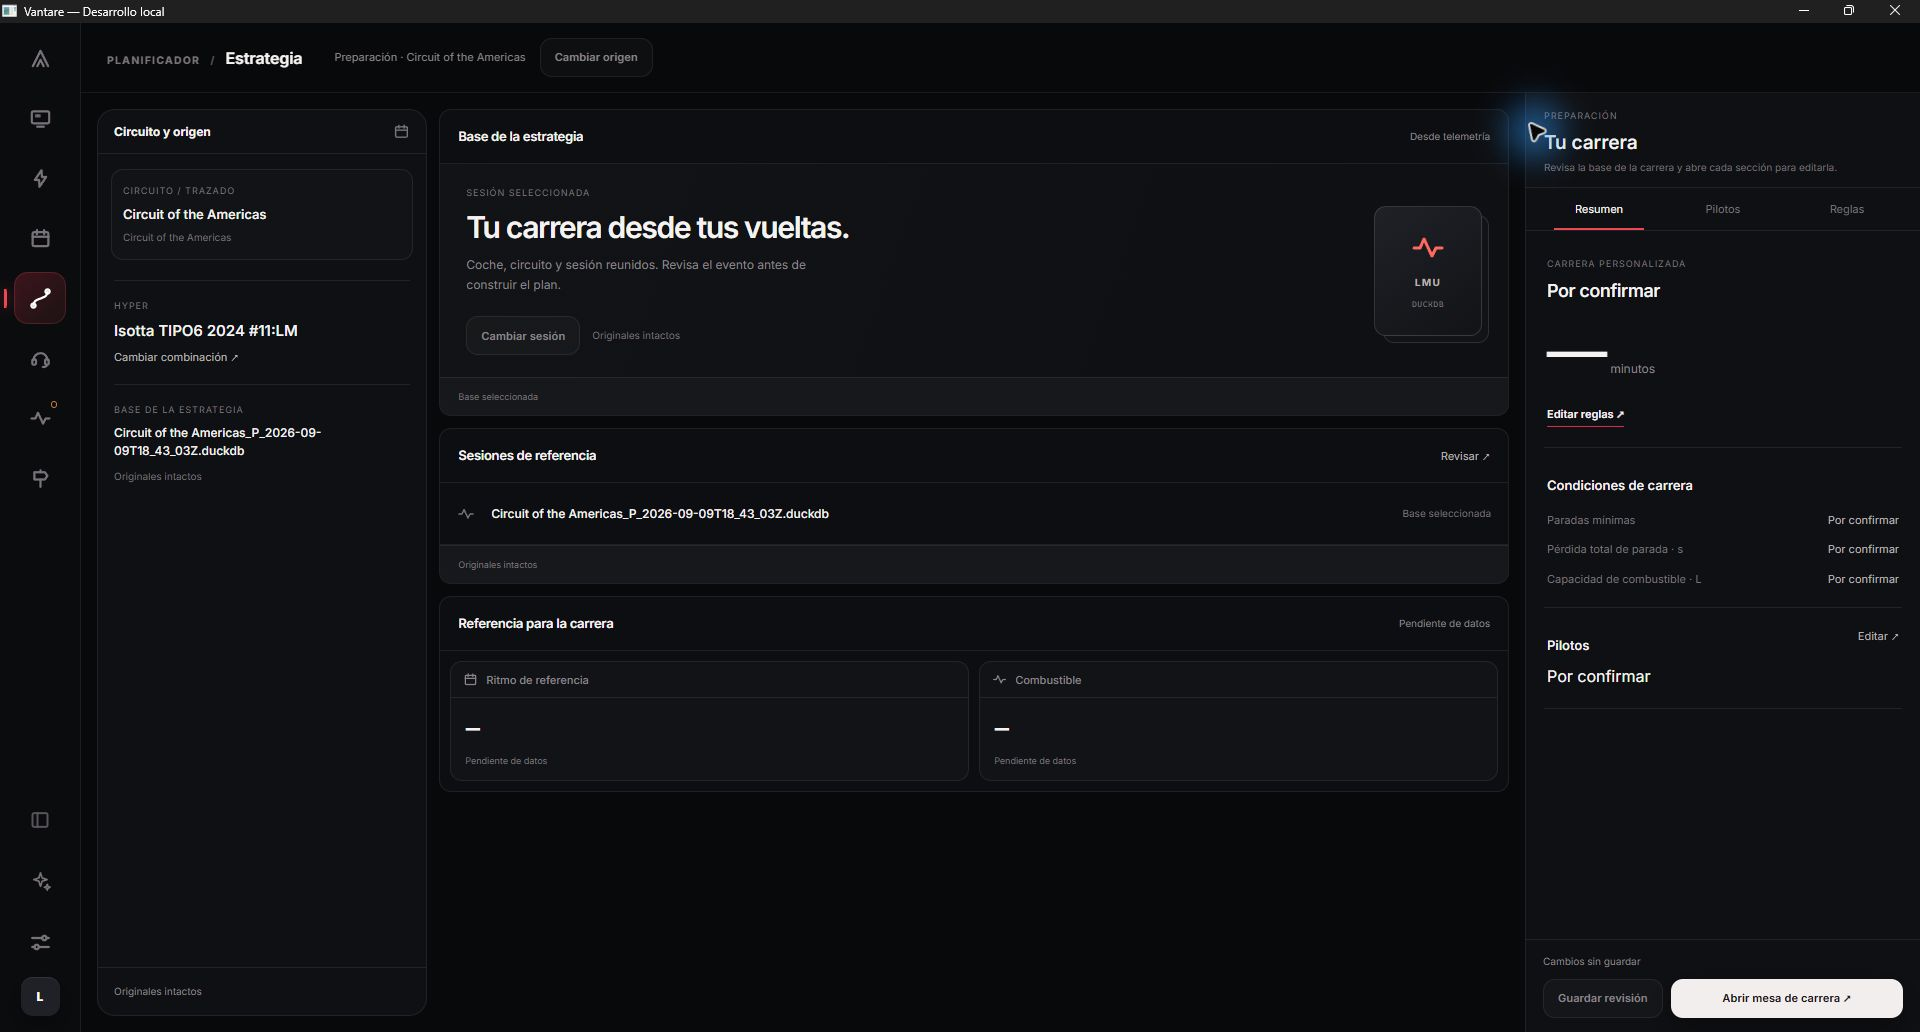
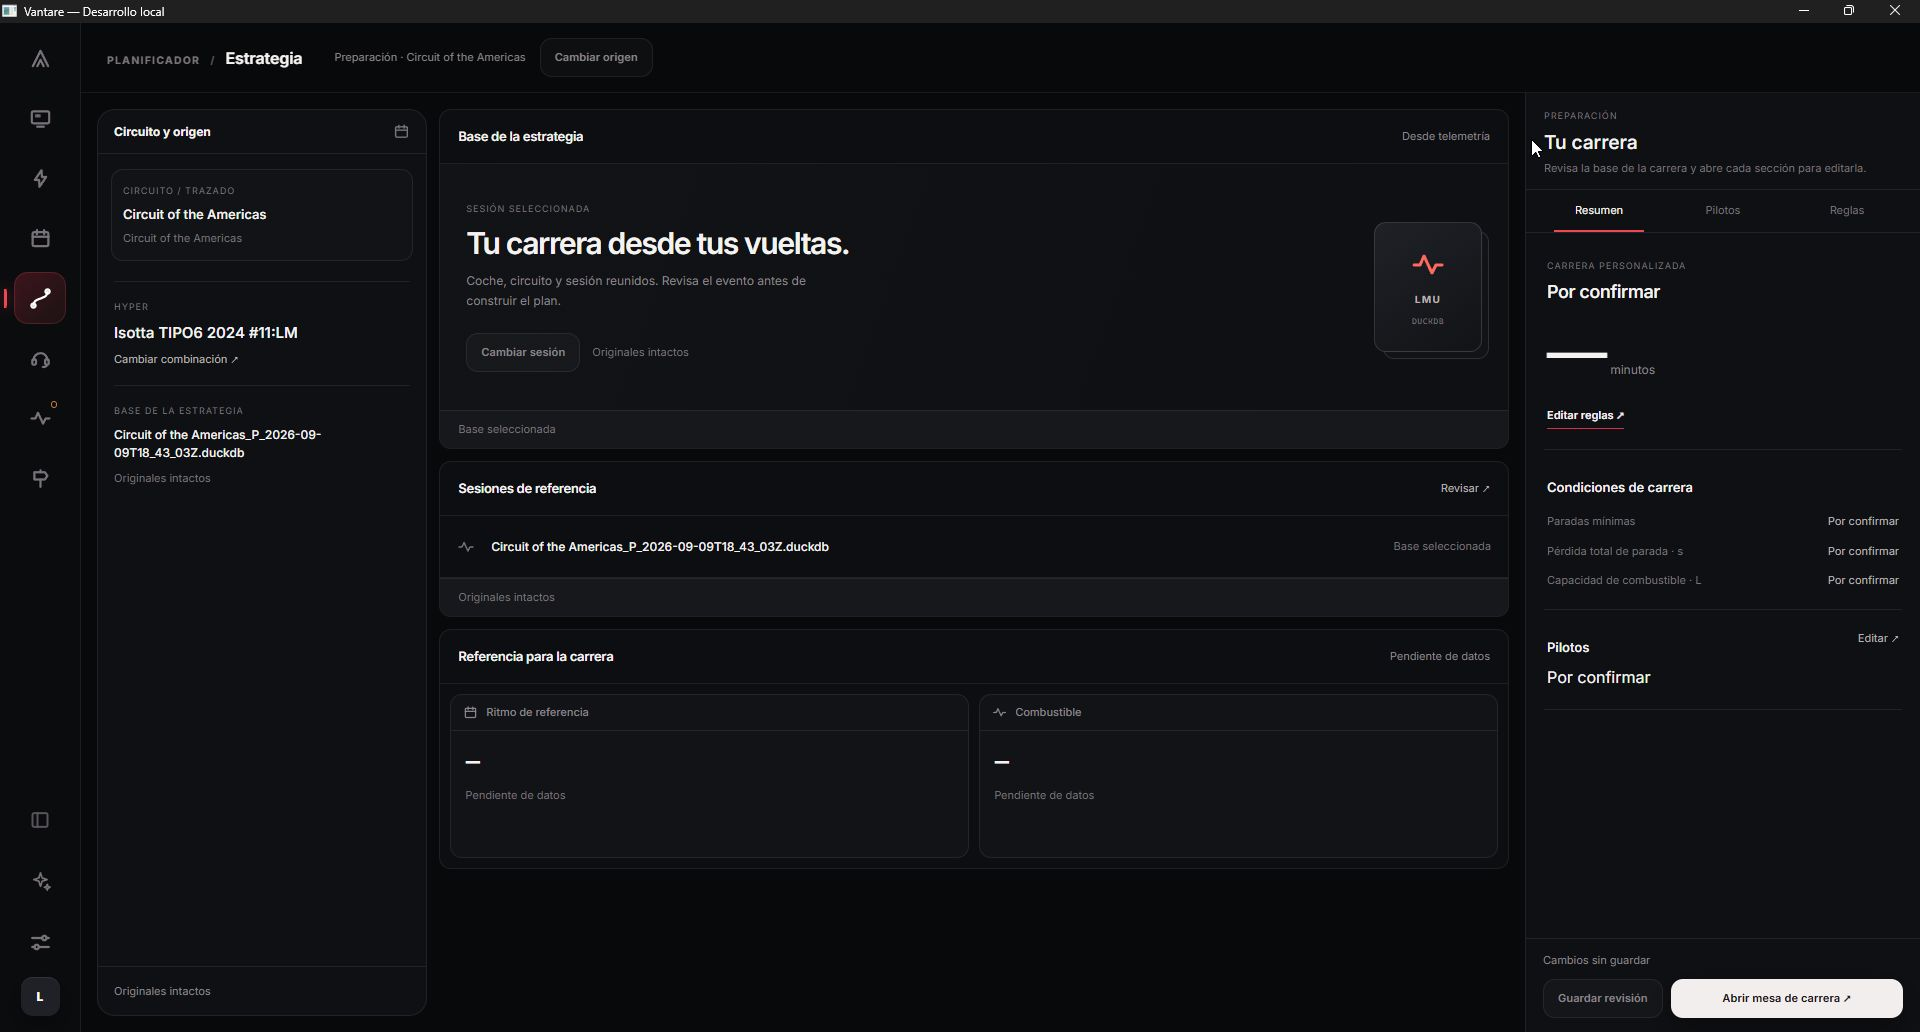
fix(strategy): apply preparation card heights and verify native build

diff --git a/vantare-v2/frontend/src/hub/strategy-orbit/strategy-recorded-preparation.css b/vantare-v2/frontend/src/hub/strategy-orbit/strategy-recorded-preparation.css
@@ -30,7 +30,8 @@
 .strategy-preparation__combination-panel .strategy-recorded-combination__identity{grid-template-columns:1fr;padding:13px}
 .strategy-preparation__combination-panel :is(select,.strategy-recorded-combination__sim){min-height:40px}
 .strategy-preparation__main{grid-column:2;grid-row:1;display:grid;grid-template-rows:auto auto minmax(175px,auto);align-content:start;gap:12px;min-width:0;min-height:690px}
-.strategy-preparation__main>section{display:flex;flex-direction:column;min-width:0;min-height:0;border:1px solid var(--orbit-line);border-radius:var(--orbit-radius-control);background:var(--orbit-surface-0);overflow:hidden}
+:where(.strategy-preparation__main>section){min-height:0}
+.strategy-preparation__main>section{display:flex;flex-direction:column;min-width:0;border:1px solid var(--orbit-line);border-radius:var(--orbit-radius-control);background:var(--orbit-surface-0);overflow:hidden}
 .strategy-preparation__main>section>header{display:flex;align-items:center;justify-content:space-between;gap:12px;min-height:54px;flex:none;padding:0 18px;border-bottom:1px solid var(--orbit-line)}
 .strategy-preparation__main>section>header h3{margin:0;font-size:13px;font-weight:600;letter-spacing:-.02em}
 .strategy-preparation__main>section>header span{font-size:11px;color:var(--orbit-ink-3)}

diff --git a/vantare-v2/docs/strategy-planner/evidence/isa-1322/README.md b/vantare-v2/docs/strategy-planner/evidence/isa-1322/README.md
@@ -1,6 +1,16 @@
 # ISA-1322 — Corrección visual de Strategy v5
 
-Estado: corrección implementada localmente. Último empaquetado Wails bloqueado por Windows Defender; aceptación visual pendiente.
+Estado: corrección implementada localmente. Rebuild normal recuperada y asset regenerado con VirusTotal 0/62. Aceptación visual pendiente; el bloqueo histórico de abajo ya no es el estado actual.
+
+## Verificación posterior — 22-sep, última build
+
+La revisión de la captura aportada por Isaac detectó una causa concreta: `.strategy-preparation__main>section` anulaba por especificidad los mínimos de las tarjetas. Se reduce únicamente la especificidad del valor genérico con `:where`; las alturas propias se aplican sin `!important`. Lint y build localdev completos pasan, logs `C:/tmp/isa1322-css-final-lint.log` y `C:/tmp/isa1322-css-final-build-localdev.log`. No se repite la suite funcional porque este ajuste es exclusivamente CSS; se verifica el render nativo.
+
+Root reabre el DuckDB COTA en el ejecutable recompilado y comprueba ventana 1266×793 y maximizada 1920×1033: Base 340 px y Referencias 240 px en escritorio amplio, controles y pie visibles. Las capturas [normal](preparation-normal.png) y [maximizada](preparation-maximized.png) corresponden ahora a esta build. Reglas y Pilotos se comprobaron en el mismo corte funcional antes de recompilar este CSS. Original con el mismo SHA-256 documentado abajo. La consola transitoria del lector sigue siendo un antecedente reproducido; no se interviene en ella.
+
+«Por confirmar» en evento y pilotos corresponde a una configuración aún sin rellenar. «Pendiente de datos» en ritmo/consumo es una limitación distinta: esta vista no recibe todavía la proyección exacta de telemetría, y su código muestra guiones expresamente. No es prueba de ausencia de vueltas utilizables y no se presenta como flujo funcional terminado.
+
[1 lines of base64/hex data omitted]
 
 ## Alcance
 
@@ -37,7 +47,7 @@ Sin push, PR, CI remota, merge, promoción ni release. La configuración de la b
 
 - Suite frontend: 490 archivos, **4.265 pruebas aprobadas, 2 omitidas**, salida 0. Se conserva en el log la traza Happy DOM `AbortError` durante teardown; no se oculta ni se presenta como prueba nativa.
 - Focales Preparation/Page/Workflow: **19/19**. Incluyen combinación plegada y reapertura, guardado, biblioteca con segunda sesión, referencias pendientes de revisión exacta y redondeo de ritmo al cambio de minuto (59.9999 → 1:00.000).
-- Typecheck, ESLint, auditoría i18n (cuatro idiomas, cero ausentes/huérfanas) y builds anteriores frontend+Wails localdev: salida 0. El último ajuste CSS compila en frontend, pero el empaquetado Wails final está bloqueado; véase abajo.
+- Typecheck, ESLint, auditoría i18n (cuatro idiomas, cero ausentes/huérfanas) y builds frontend+Wails localdev: salida 0. El bloqueo histórico se documenta abajo; el último CSS sí está empaquetado y comprobado en nativo en la verificación posterior.
 - Roadmap: 44 pruebas aprobadas; artefacto regenerado desde origin/nightly, `--check` sin cambios. No se editó JSON manualmente.
 - No se repite Go test: no se modifica Go ni contrato compartido. La compilación Wails localdev sí enlaza el frontend productivo nuevo.
 - No se ejecuta CI remota ni matriz completa de idiomas/tamaños; la prueba visual nativa de este corte es en español a 1266×793 y 1920×1033.
@@ -50,9 +60,9 @@ Abrir `C:/tmp/vantare-isa1322/vantare-v2/bin/vantare-localdev.exe`, entrar en St
 
 Las instancias propias de QA se cerraron antes de recompilar; la instancia previa del usuario no se cerró ni reemplazó. El directorio data/ de esa prueba es local y no se entrega.
 
-## Bloqueo final y revisión visual
+## Antecedente: bloqueo y revisión visual anterior
 
-La última pasada nativa con capturas obtuvo **8,9/10** del revisor GPT-6 Sol medium: normal 9,1 y maximizada 8,7. No se alcanza todavía el umbral solicitado de más de 9. [Ventana normal](preparation-normal.png) y [maximizada](preparation-maximized.png) corresponden a esa pasada, no al último CSS.
+La pasada nativa anterior obtuvo **8,9/10** del revisor GPT-6 Sol medium: normal 9,1 y maximizada 8,7. En aquel corte no se alcanzó el umbral solicitado de más de 9. Las capturas enlazadas arriba se han sustituido por la nueva verificación posterior; la revisión anterior queda como antecedente.
 
 El ajuste posterior es sólo CSS: mejora textos auxiliares a 11 px y asigna en escritorio amplio un mínimo de 340 px a Base y 240 px a Referencias. ESLint y diff-check pasan. El frontend termina de compilar, pero el empaquetado Go falla al intentar embeber un asset de Carreras:
 
@@ -62,10 +72,10 @@ github.com/vantare/overlays/v2/frontend/embed.go:9:5: embed dist/assets/RacesOrb
 
 El worker informa de cuarentena de Windows Defender a las 22:29:58. El log de build confirma el bloqueo de lectura. No se ha determinado aquí si es una detección válida o un falso positivo. No se cambia protección, no se restaura ni se añade excepción, y no se reintenta por otra ruta. El binario previo no contiene el último CSS y no se entrega como actualizado. El dist queda incompleto por la retirada del asset.
 
-**Siguiente acción:** Isaac debe revisar la detección en Seguridad de Windows. Tras resolverla, recompilar normalmente, repetir capturas normal/maximizada y solicitar al revisor el contraste final. No declarar el acabado visual aceptado mientras eso falte.
+La acción pendiente de aquel corte fue revisar la detección y recompilar normalmente. La rebuild posterior solicitada por Isaac tuvo éxito; el análisis del asset regenerado está en [la auditoría actualizada](defender-audit.md). Se conserva este antecedente para distinguir las capturas y builds anteriores de la verificación posterior.
 
 ## Archivos
 
 Cambios de aplicación: OrbitShell, orbit-slot-ids, orbit-shell.css; StrategyRecordedPreparation y su CSS; StrategyRecordedWorkflow; CSS de frame/page; traducciones Strategy es/en/pt/it. Tests: Preparation nuevo, Page y Workflow adaptados. Documentación: diseño v5, handoff vivo, plan/roadmap generado y esta evidencia con dos PNG. No se mueven archivos; no se cambia backend ni dependencias.
 
-Logs locales: `C:/tmp/isa1322-{typecheck,focused,test,lint,i18n,build}.log`. El log build final registra el fallo externo; las builds anteriores exitosas se verificaron mediante la ejecución nativa descrita.
+Logs originales: `C:/tmp/isa1322-{typecheck,focused,test,lint,i18n,build}.log`; `isa1322-build.log` registra el fallo histórico externo. La recompilación final exitosa usa `C:/tmp/isa1322-css-final-build-localdev.log` y su ejecución nativa se describe arriba.

diff --git a/vantare-v2/docs/vantare-program/handoffs/strategy-planner.md b/vantare-v2/docs/vantare-program/handoffs/strategy-planner.md
@@ -6,7 +6,17 @@
 > Este handoff conserva evidencia técnica fechada; sus estados antiguos no
 > sustituyen el estado vivo ni autorizan nuevas tareas. Enlazar las nuevas entradas a Notion.
 
-## Actualización — rebuild solicitada y VirusTotal preparado (2026-09-22)
+## Actualización — QA final de composición y límite funcional (2026-09-22)
+
+Isaac completa VirusTotal: el asset regenerado obtiene 0/62, incluido Microsoft sin detección; no se afirma identidad con el original en cuarentena. Resultado enlazado en la auditoría de ISA-1322. La build normal vuelve a funcionar sin cambios de protección.
+
+Al contrastar su nueva captura, root encuentra que un selector CSS más específico anulaba los mínimos de altura. GPT-6 Sol medium corrige sólo el valor genérico usando `:where`; lint y build localdev pasan. Root comprueba de nuevo COTA en nativo, normal 1266×793 y maximizada 1920×1033, con el DuckDB original intacto. Inspector Reglas/Pilotos accesible. Capturas finales actualizadas en la [evidencia](../../strategy-planner/evidence/isa-1322/README.md). Revisor visual GPT-6 Sol medium: 9,1 normal, 9,0 maximizada, 9,1 conjunta redondeada; listo para revisión de Isaac, no aceptación humana ni paridad píxel a píxel.
+
+La preparación visual queda revisada, pero no terminada funcionalmente: reglas/pilotos sin configurar aparecen «Por confirmar», mientras ritmo y combustible aparecen «Pendiente de datos» porque esta vista aún no recibe la proyección exacta adoptada. Son causas diferentes; abrir correctamente el archivo no acredita las tarjetas ni T22. La siguiente conexión debe reutilizar la autoridad de Analysis existente, sin cálculos paralelos ni valores de ejemplo. La consola transitoria del lector sigue observada. No se cambia ese alcance en esta corrección CSS.
+
[1 lines of base64/hex data omitted]
+
+## Antecedente — rebuild solicitada y VirusTotal preparado (2026-09-22)
 
[1 lines of base64/hex data omitted]
 

diff --git a/vantare-v2/docs/strategy-planner/evidence/isa-1322/defender-audit.md b/vantare-v2/docs/strategy-planner/evidence/isa-1322/defender-audit.md
@@ -4,6 +4,8 @@ Fecha: 2026-09-22. Solicitud de Isaac: verificar antes de considerar una autoriz
 
 ## Conclusión
 
[1 lines of base64/hex data omitted]
+
 **Falso positivo probable, no confirmado.** No se halló comportamiento malicioso en el fuente revisado ni diferencias en los 168 archivos oficiales comparados de seis paquetes instalados. No se ha podido inspeccionar el JavaScript exacto marcado porque está en cuarentena. Esto no certifica la ausencia de malware en el bundle ni identifica la secuencia que dispara la detección.
 
 ## Evidencia local
